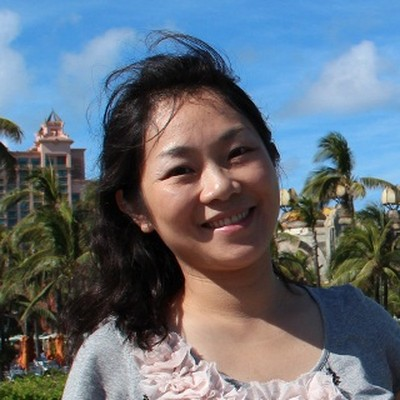
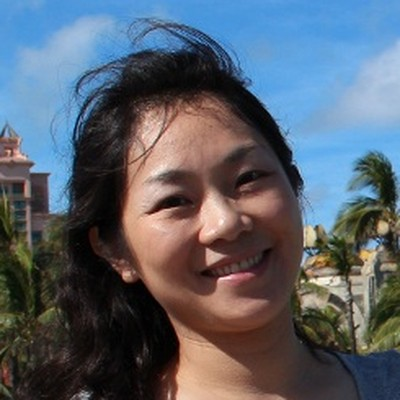
Tighter portrait crop
Claude-Session: https://claude.ai/code/session_01ScnYJ76TRjiVUgBHJFWX4w

diff --git a/index.html b/index.html
@@ -352,7 +352,7 @@ footer{border-top:1px solid var(--line);padding-top:18px;font-size:13px;color:va
 <div class="wrap">
   <header class="mast">
     <div>
-      <div class="who"><img class="portrait" src="figures/portrait.jpg?v=3" alt="Photo of Jing Yang" width="100" height="100"><div class="ident">
+      <div class="who"><img class="portrait" src="figures/portrait.jpg?v=4" alt="Photo of Jing Yang" width="100" height="100"><div class="ident">
         <div class="eyebrow">Human–AI Collaborative Analytics · Information Visualization</div>
         <h1>Jing Yang</h1>
         <p class="role">Professor, Department of Machine Learning, University of North Carolina at Charlotte</p>
